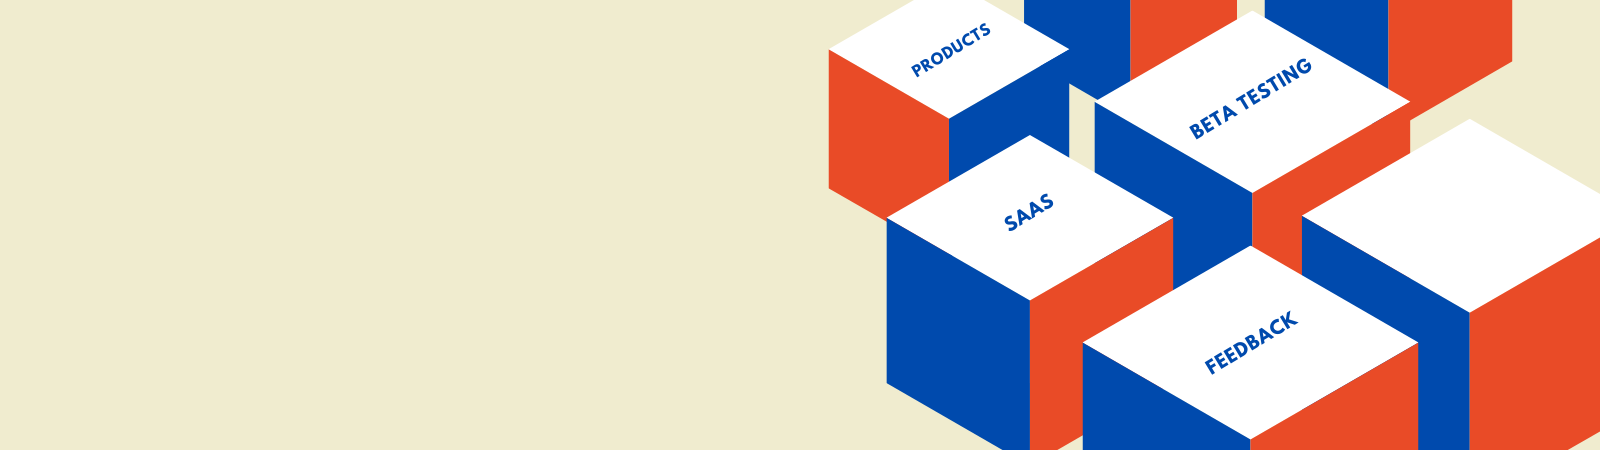
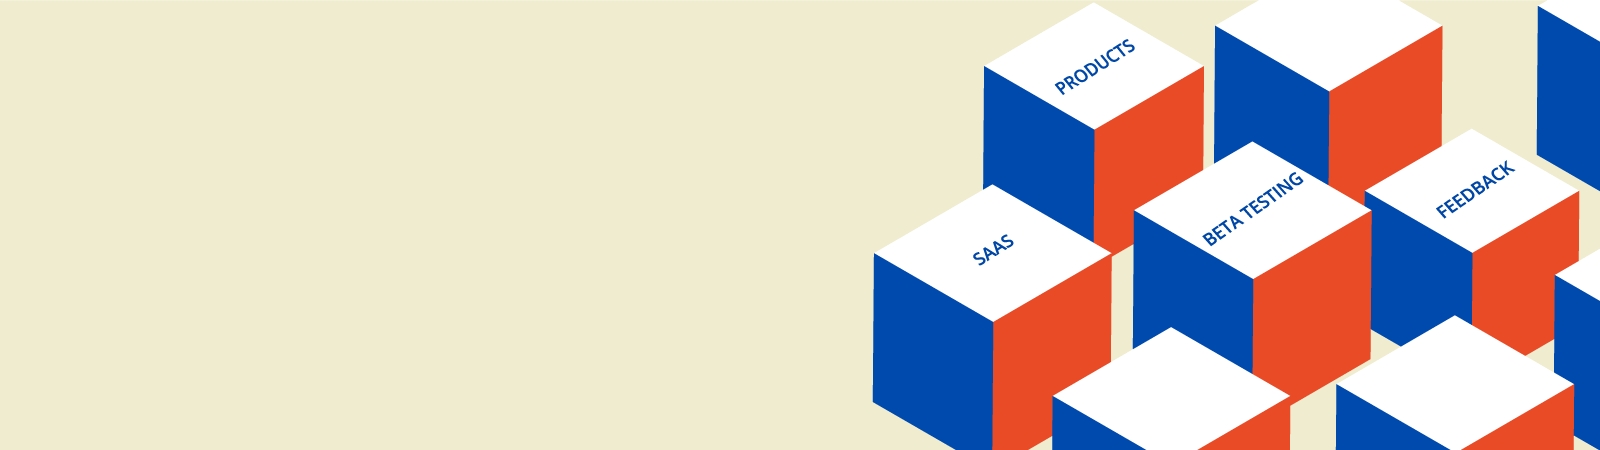
sendinblue and style fixes

diff --git a/src/app/pages/startup/thank-you/thank-you.component.html b/src/app/pages/startup/thank-you/thank-you.component.html
@@ -1,21 +1,21 @@
 <div style="min-height: 600px;">
-  <section class="pt-5" *ngIf="loadPage">
+  <section class="py-5 tydiv" *ngIf="loadPage">
       <div class="container">
           <div class="text-center">
-              <img src="assets/images/successfully-done.gif" width="150">
-              <h2 class="h2color">Product Submitted!</h2>
+              <img src="assets/images/verify.png" width="100">
+              <h2 class="mt-3">Product Submitted!</h2>
           </div>
-          <div style="width: 700px; margin: auto;" class="py-4">
-            <p class="text-center">We will check to see if your startup qulifies to get featured. You will receive an email from us very shortly. So, Please keep an eye on your inbox. Thank You!</p>
+          <div class="py-4 tytxt">
+            <p class="text-center text-white">We will check to see if your startup qulifies to get featured. You will receive an email from us very shortly. So, Please keep an eye on your inbox. Thank You!</p>
           </div>
       </div>
   </section>
-  <!-- <section>
+  <section>
       <div class="container">
-          <h5 class="pb-5 text-center text-capitalize upgradegreen">Upgrade your submission for extra perks.</h5>
-          <div class="row gx-5 pb-5 justify-content-center">
-              <div class="col-md-3">
-                  <div class="paidplan position-relative p-4">
+          <h3 class="py-5 text-center text-capitalize h2color mb-0 mb-md-5">Upgrade your submission for extra perks.</h3>
+          <div class="row gx-4 gx-md-5 pb-5 justify-content-center">
+              <div class="col-md-3 mb-4">
+                  <div class="paidplan position-relative p-4 mx-5 mx-md-0">
                     <div class="ribbon"><span class="font8rem fw-bold">Startup</span></div>
                       <h3 class="text-center pb-3">$49</h3>
                       <ul>
@@ -28,8 +28,8 @@
                       <a href="https://buy.stripe.com/7sIaFabpDdM6dckfYY" target="_blank" class="btn btn-primary w-100">Pay Now</a>
                   </div>
               </div>
-              <div class="col-md-3 position-relative">
-                <div class="mainplan text-center font9rem fw-bold text-transform-uppercase"><p class="mt-1">Popular</p></div>
+              <div class="col-md-3 mb-4 position-relative mainplan">
+                <div class="text-center font9rem fw-bold text-transform-uppercase"><p class="my-2 text-white">Popular</p></div>
                   <div class="paidplan position-relative p-4">
                     <div class="ribbon"><span class="font8rem fw-bold">Startup</span></div>
                       <h3 class="text-center pb-3">$99</h3>
@@ -43,8 +43,8 @@
                       <a href="https://buy.stripe.com/28oaFadxLfUe2xGfYZ" target="_blank" class="btn btn-primary w-100">Pay Now</a>
                   </div>
               </div>
-              <div class="col-md-3">
-                  <div class="paidplan position-relative p-4">
+              <div class="col-md-3 mb-4">
+                  <div class="paidplan position-relative p-4 mx-5 mx-md-0">
                     <div class="ribbon"><span class="font8rem fw-bold">Hobby</span></div>
                       <h3 class="text-center pb-3">FREE</h3>
                       <ul>
@@ -56,5 +56,5 @@
               </div>
           </div>
       </div>
-  </section> -->
+  </section>
 </div>

diff --git a/src/assets/bufferapps.css b/src/assets/bufferapps.css
@@ -926,7 +926,7 @@
   border-color: #f83812;
   }
   .profile-view {
-  background-image: url(assets/profile-gradient.jpg);
+  background-image: url(profile-gradient.jpg);
   background-size: cover;
   }
   .prof-box {
@@ -1170,64 +1170,6 @@
     position: relative;
     margin-top: -150px;
   }
-  .top-home {
-    padding: 50px 0 200px;
-    /* background: rgb(164,27,232); */
-    background: #0e0e0e;
-    /* background: linear-gradient(71deg, rgba(164,27,232,1) 0%, rgba(236,27,161,1) 47%, rgba(241,130,26,1) 100%); */
-  }
-  .top-home h1 {
-    /* text-shadow: 2px 2px 0px #5e5e5e;
-    mix-blend-mode: screen; */
-    /* animation: fadeIn 2.5s linear forwards; */
-    /* background: linear-gradient(
-      to right, 
-      hsl(0deg 100% 62%),
-      hsl(204 100% 59%)
-    );
-    -webkit-background-clip: text;
-    -webkit-text-fill-color: transparent; */
-    font-size: 3rem;
-    background-image: linear-gradient(
-      to right,
-      #462523 0,
-    #ffc060 22%, 
-      #f6e27a 45%,
-      #f6f2c0 50%,
-      #f6e27a 55%,
-      #ffc060 78%,
-      #462523 100%
-      );
-     color:transparent;
-     -webkit-background-clip:text;
-     text-transform: uppercase;
-  }
-  /* .recent-prd {
-    margin-top: -140px;
-  } */
-  .saasword {
-    color: #920898;
-    font-weight: 900;
-    /* transform: rotate(-15deg); */
-  }
-  .mrktword {
-    right: 7%;
-    color: #cd2e07;
-    font-weight: 900;
-    /* transform: rotate(17deg); */
-  }
-  .prword {
-    font-weight: 900;
-    right: 10%;
-    top: 40%;
-    color: #db3b01;
-  }
-  .betaword {
-    font-weight: 900;
-    top: 36%;
-    left: 10%;
-    color: #a108a7;
-  }
   .trending-home {
     padding: 100px 0;
     background: #243763;
@@ -1273,11 +1215,11 @@
     width: 325px;
     height: 450px;
     position: absolute;
-    left: 5px;
+    /* left: 5px; */
     top: -30px;
     background: #673ab7;
     border-radius: 10px;
-    color: #fff;
+    color: #000;
   }
   .upgradegreen {
     color: #2fd811;
@@ -1311,6 +1253,7 @@
   /* Main home section */
   .main-section {
     background-image: url('featureimage.png');
+    background-size: cover;
   }
   .main-section h1 {
     font-size: 4rem;
@@ -1329,9 +1272,19 @@
   .btn-explore:hover {
     color: #F0ECCF;
   }
+  .tydiv {
+    background: #243763;
+  }
+  .tydiv h2 {
+    color: #fffab0;
+  }
+  .tytxt {
+    width: 700px; 
+    margin: auto;
+  }
   
   @media only screen and (max-width: 768px) {
-  .prvcypages, .redeembox {
+  .prvcypages, .redeembox, .tytxt {
     width: 100%;
   }
   .mw-100, .aboutfooterimg {
@@ -1429,12 +1382,29 @@
   .revquediv {
     width: 100%;
   }
+  .main-section {
+    background-image: none;
+    background: #0f0c29;  /* fallback for old browsers */
+    background: -webkit-linear-gradient(to right, #24243e, #302b63, #0f0c29);  /* Chrome 10-25, Safari 5.1-6 */
+    background: linear-gradient(to right, #24243e, #302b63, #0f0c29); /* W3C, IE 10+/ Edge, Firefox 16+, Chrome 26+, Opera 12+, Safari 7+ */
+
+  }
   .main-section h1 {
-    font-size: 2.5rem;
+    font-size: 2rem;
     text-align: center;
+    color: #fff;
   }
   .main-section p {
     text-align: center;
+    font-size: 1rem;
+    color: #e6e6e6;
+  }
+  .btn-explore {
+    background-color: #fffdd9;
+    color: #243763;
+  }
+  .mainplan {
+    top: 0;
   }
   }
   .sib-btn-joinnow {

diff --git a/src/app/pages/home/home.component.html b/src/app/pages/home/home.component.html
@@ -3,8 +3,8 @@
         <div class="row">
             <div class="col-md-6">
                 <h1 class="fw-bold">Apps for Everyday Entrepreneurs!</h1>
-                <p class="pt-4">The place to discover your next favorite Apps 🚀</p>
-                <div class="pt-5 pb-3 text-center text-md-start"><a class="btn-explore px-4 py-3" href="https://bufferapps.com/beta-testing">Explore Products</a></div>
+                <p class="pt-4">The place to discover your next favorite App 🚀</p>
+                <div class="pt-5 pb-3 text-center text-md-start"><a class="btn-explore px-4 py-2 py-md-3" href="https://bufferapps.com/beta-listing">Explore Products</a></div>
             </div>
             <div class="col-md-6"></div>
         </div>
@@ -12,7 +12,6 @@
 </section>
 
 <div class="bgcolorf9">
-
     <section class="py-5 recent-prd position-relative">
         <div class="container">
             <div class="row gx-lg-5">
@@ -49,7 +48,7 @@
                 </div>
                 
                 <div class="col-md-4">
-                    <h5 class="pb-3 fw-bold"><i class="bi bi-lightning-charge"></i> Trending Deal</h5>
+                    <h5 class="pb-3 fw-bold pt-4 pt-md-0"><i class="bi bi-lightning-charge"></i> Trending Deal</h5>
                     <div class="dealsticky">
                         <div> <!-- *ngIf="trendingDeal" -->
                             <a href="https://bufferapps.com/lifetime-deals/linktube"><img class="border-top-radius" src="https://media.publit.io/file/fil-X8H.png" alt="LinkTube Deal" width="100%"></a>

diff --git a/src/app/layout/header/header.component.html b/src/app/layout/header/header.component.html
@@ -20,20 +20,20 @@
           </ul>
         </div>
       </div>
-      <ul class="navbar-nav mb-2 mb-lg-0">
+      <ul class="navbar-nav mb-2 mb-lg-0 mt-3 mt-md-0">
         <!-- <li class="nav-item" *ngIf="!isDealsPage">
           <a class="nav-link text-center" (click)="onDealsClick()">Deals</a>
         </li> -->
-        <li class="nav-item">
-          <a class="nav-link text-center orangebg me-2" target="_blank" href="https://launch.bufferapps.com/join-beta">Get $10</a>
+        <li class="nav-item mb-2 mb-md-0">
+          <a class="nav-link text-center orangebg me-md-2" target="_blank" href="https://launch.bufferapps.com/join-beta">Get $10</a>
         </li>
-        <li class="nav-item" *ngIf="!isBetaPage">
+        <li class="nav-item mb-2 mb-md-0" *ngIf="!isBetaPage">
           <a class="nav-link text-center" (click)="onBetaClick()">Beta Launch</a>
         </li>
         <app-header-beta *ngIf="isBetaModule" [userData]="userData"></app-header-beta>
         <app-header-deals *ngIf="isDealsModule" [userData]="userData"></app-header-deals>
-        <li class="nav-item ms-2" *ngIf="!userData">
-          <button class="nav-link btn btn-primary text-white" (click)="onShowSignUpModal()"> Sign In</button>
+        <li class="nav-item ms-md-2 mb-2 mb-md-0" *ngIf="!userData">
+          <button class="nav-link btn btn-primary text-white m-auto" (click)="onShowSignUpModal()"> Sign In</button>
         </li>
         <li class="nav-item" *ngIf="userData">
 

diff --git a/src/environments/environment.prod.ts b/src/environments/environment.prod.ts
@@ -2,15 +2,15 @@ export const environment = {
   production: true,
   appName:"BufferApps",
   // serverApiURL : "https://api.bufferapps.com/api",
-  serverApiURL : "https://staging.bufferapps.com/backend/api",
+  serverApiURL : "https://bufferapps.com/backend/api",
   // googleClientId: '336338936276-6ci8odb1a9i60g0qliramee0n7bv6u6s.apps.googleusercontent.com',
   googleClientId: '336338617133-tmmkqno68vjqle74o3telgtedfivl3f5.apps.googleusercontent.com',
   facebookAppId: '1821078651565949',  
   sendinblueApiUrl:"https://api.sendinblue.com",
-  sendinblueListId:31, 
-  sendinblueAllusersListId:40, 
-  sendinblueVendorsListId:39,  
-  sendinblueApiKey:"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",  
+  sendinblueListId:4, 
+  sendinblueAllusersListId:7, 
+  sendinblueVendorsListId:6,  
+  sendinblueApiKey:"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",  
   cryptoJsSecretKey : '12345678901234567890',
   cacheTimeInMinutes:30,
   betaBaseUrl:'/beta-listing',

diff --git a/src/app/layout/header-beta/header-beta.component.html b/src/app/layout/header-beta/header-beta.component.html
@@ -10,15 +10,15 @@
         </ul>
     </li> -->
     <li class="nav-item">
-        <a class="nav-link btn" routerLink="/join-beta" aria-current="page">Join Beta</a>
+        <a class="nav-link btn mb-2 mb-md-0" routerLink="/join-beta" aria-current="page">Join Beta</a>
     </li>
-    <li class="nav-item" *ngIf="userData?.scnt > 0">
+    <li class="nav-item mb-2 mb-md-0" *ngIf="userData?.scnt > 0">
         <a class="nav-link btn btn-neutral" aria-current="page" (click)="onVendorClick()">Vendor</a>
     </li>
-    <li class="nav-item" *ngIf="!userData">
+    <li class="nav-item mb-2 mb-md-0" *ngIf="!userData">
         <a class="nav-link btn btn-neutral" aria-current="page" (click)="onSubmitProductClick()" >+ Submit Product</a>
     </li>
-    <li class="nav-item" *ngIf="userData && userData?.scnt == 0">
+    <li class="nav-item mb-2 mb-md-0" *ngIf="userData && userData?.scnt == 0">
         <a class="nav-link btn btn-neutral" aria-current="page" (click)="onSubmitProductClick()" >+ Submit Product</a>
     </li>
 </div>

diff --git a/src/app/services/sendinblue.service.ts b/src/app/services/sendinblue.service.ts
@@ -17,7 +17,7 @@ export class SendInBlueService{
                 "listIds": [
                     listId
                 ],
-                "updateEnabled": false,
+                "updateEnabled": true,
                 "email": subscribe.email
             },
             {
@@ -38,7 +38,7 @@ export class SendInBlueService{
                 "listIds": [
                     listId
                 ],
-                "updateEnabled": false,
+                "updateEnabled": true,
                 "email": email
             },
             {
@@ -59,7 +59,7 @@ export class SendInBlueService{
                 "listIds": [
                     listId
                 ],
-                "updateEnabled": false,
+                "updateEnabled": true,
                 "email": email
             },
             {

diff --git a/src/app/layout/header-deals/header-deals.component.html b/src/app/layout/header-deals/header-deals.component.html
@@ -1,11 +1,11 @@
 <div class="d-lg-flex">   
-    <li class="nav-item" *ngIf="userData && userData?.dcnt == 0">
+    <li class="nav-item mb-2 mb-md-0" *ngIf="userData && userData?.dcnt == 0">
         <a class="nav-link btn btn-neutral" aria-current="page" (click)="onSubmitDealsClick()">+ Submit Deal</a>
     </li>
-    <li class="nav-item" *ngIf="userData?.dcnt > 0">
+    <li class="nav-item mb-2 mb-md-0" *ngIf="userData?.dcnt > 0">
         <a class="nav-link btn btn-neutral" aria-current="page" (click)="onVendorClick()">Vendor</a>
     </li>
-    <li class="nav-item" *ngIf="userData">
+    <li class="nav-item mb-2 mb-md-0" *ngIf="userData">
         <a class="nav-link btn" aria-current="page" (click)="onCartClick()">Cart ( {{ cartCount }} )</a>
     </li>
 </div>

diff --git a/src/environments/environment.ts b/src/environments/environment.ts
@@ -11,10 +11,10 @@ export const environment = {
   // googleClientId: '1064039299039-hojke0hj2qci9v68qinuddj3e21esppa.apps.googleusercontent.com',// Abhijit
   facebookAppId: '1821078651565949',
   sendinblueApiUrl:"https://api.sendinblue.com",
-  sendinblueListId:31, 
-  sendinblueAllusersListId:40, 
-  sendinblueVendorsListId:39, 
-  sendinblueApiKey:"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",  
+  sendinblueListId:4, 
+  sendinblueAllusersListId:7, 
+  sendinblueVendorsListId:6, 
+  sendinblueApiKey:"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",  
   cryptoJsSecretKey : '12345678901234567890',
   cacheTimeInMinutes:30,
   betaBaseUrl:'/beta-listing',

diff --git a/src/index.html b/src/index.html
@@ -8,9 +8,9 @@
 
     <!-- Bootstrap CSS -->
     <link href="https://fonts.googleapis.com/css2?family=Inter:wght@100;200;300;400;500;600;700;800;900&display=swap" rel="stylesheet">
+    <link href="https://cdn.jsdelivr.net/npm/bootstrap-icons@1.10.2/font/bootstrap-icons.css" rel="stylesheet" >
     <link rel="stylesheet" type="text/css" href="assets/bootstrap.min.css">
     <link rel="stylesheet" type="text/css" href="assets/bufferapps.css">
-    <link rel="stylesheet" href="https://cdn.jsdelivr.net/npm/bootstrap-icons@1.10.2/font/bootstrap-icons.css">
 
     <title>BufferApps- A SaaS Launchpad | Discover Best SaaS For 2022</title>
     <meta name="og:locale" content="en_US">
